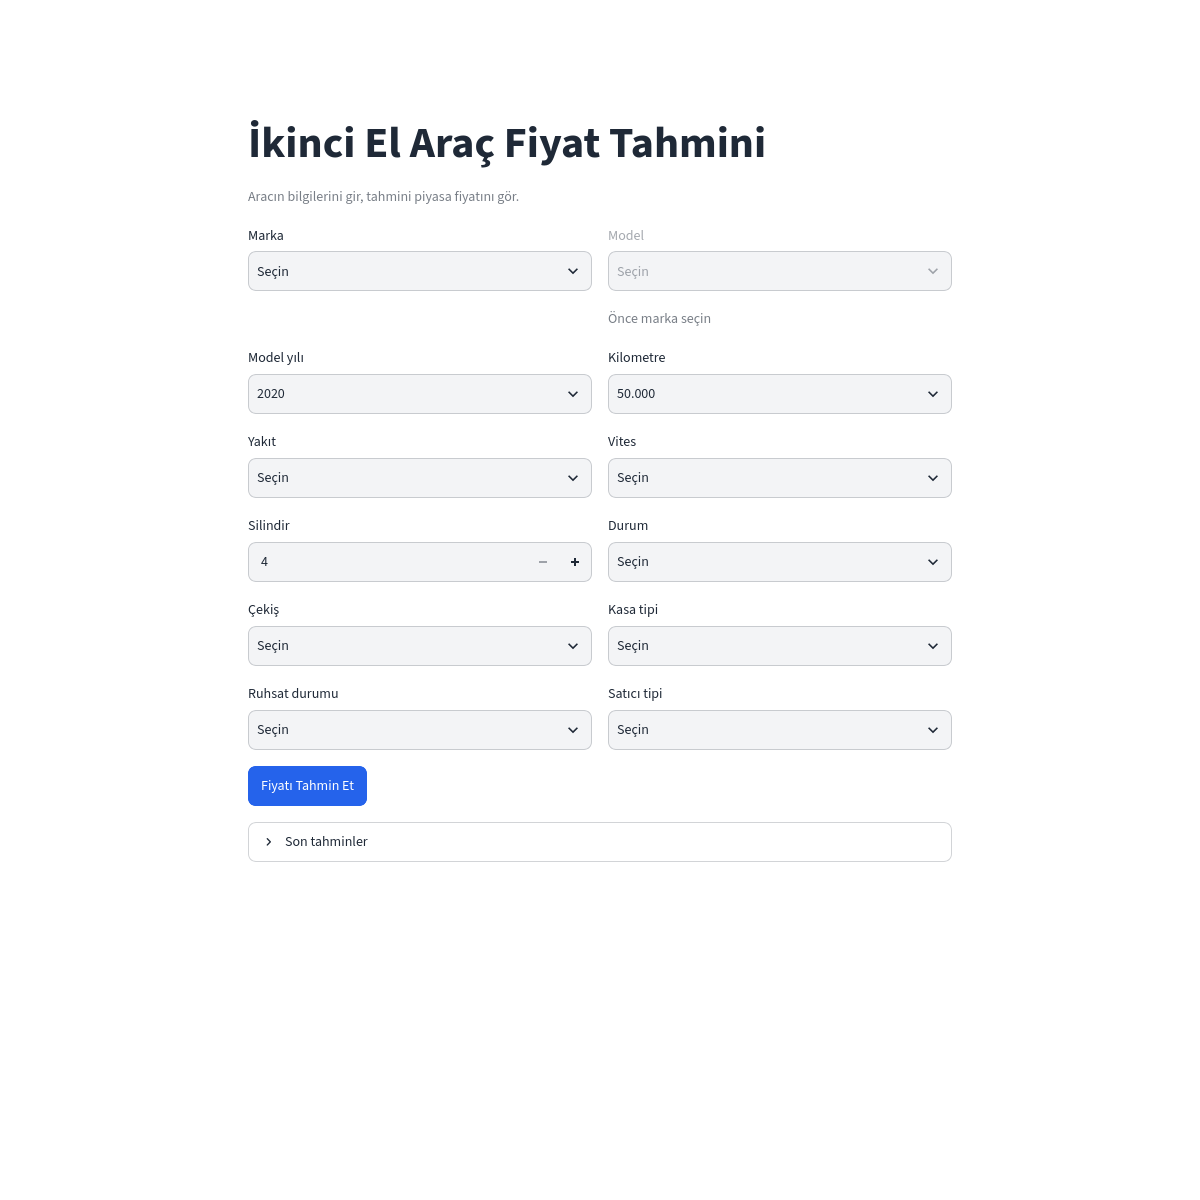
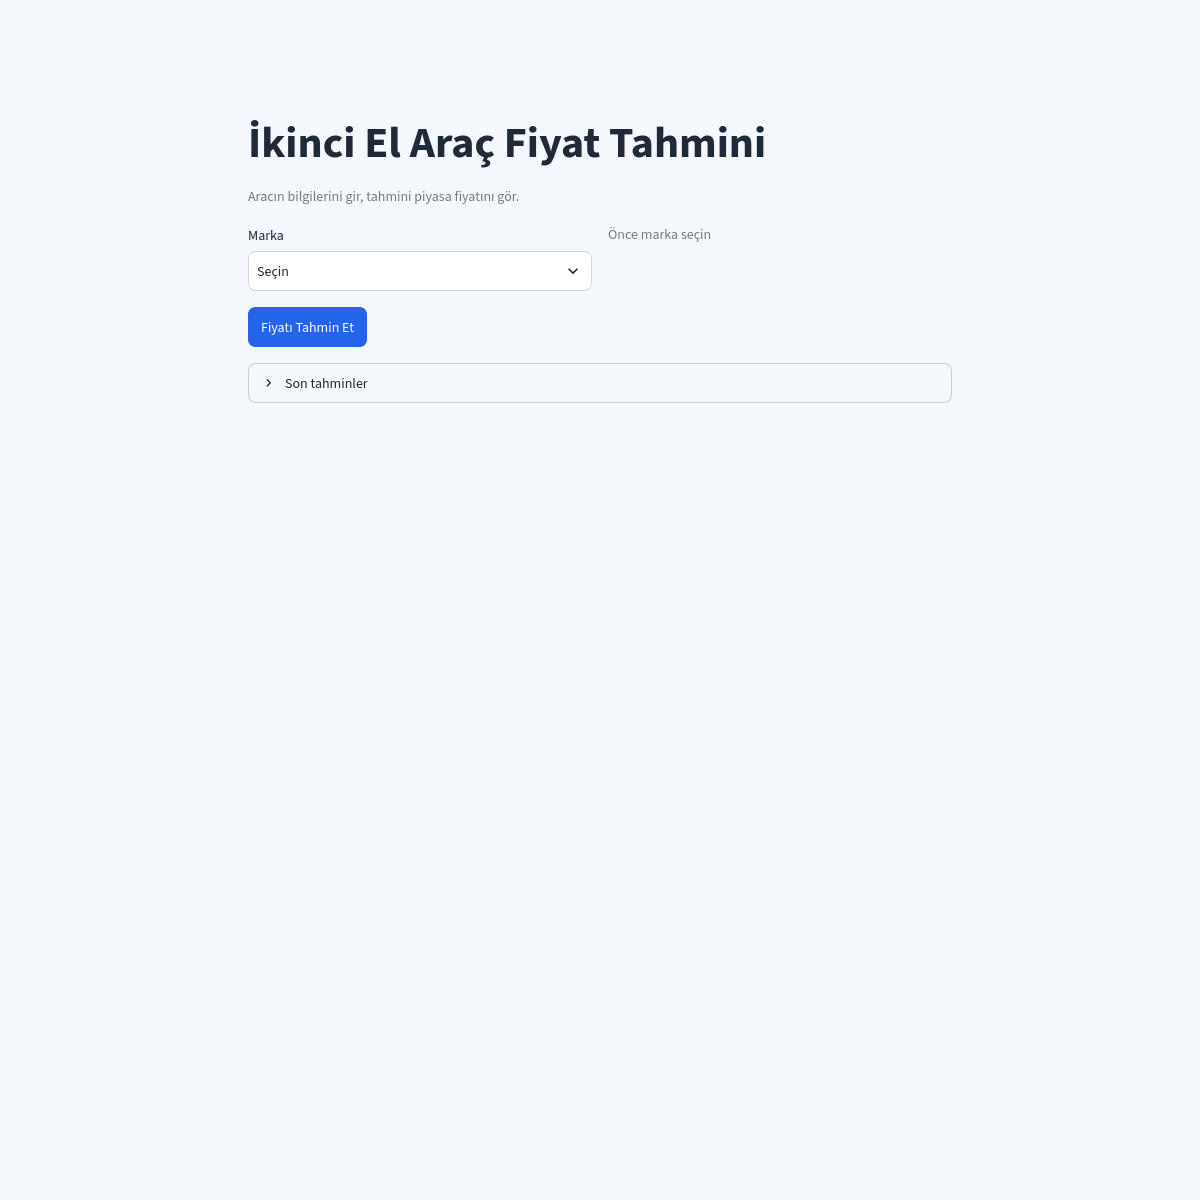
test(ui): v2 ekran görüntüleri ve doğrulama kaydı

diff --git a/docs/DOGRULAMA.md b/docs/DOGRULAMA.md
@@ -60,3 +60,19 @@ yer almaz; kullanıcı boş model listesiyle karşılaşmaz. Doğrulama:
 
 `get_options()` fonksiyonuna eklenen `year` ve `mileage` anahtarları CONTRACT.md'deki imzayı genişletir.
 Belge güncellemesi ve iki kişilik onay (Kaan) hâlâ bekleniyor; bu, §12 maddelerinden bağımsız bir süreç maddesidir.
+
+## V2 ek doğrulamaları (osman/frontend-v1 üzerine)
+
+| Kontrol | Sonuç |
+|---|---|
+| Arka plan açık gri-mavi (`#F4F7FB`) | ✅ tarayıcıda `rgb(244,247,251)` doğrulandı |
+| Marka seçilmeden Model görünmüyor | ✅ 1 selectbox ("Marka"), "Önce marka seçin" yazısı |
+| Model seçilmeden yıl/km/yakıt/vites/diğer alanlar gizli | ✅ 2 selectbox (Marka + Model), `number_input` yok |
+| Silindir: Elektrik ve Hibrit'te gizli, Dizel'de görünür | ✅ Playwright + 3 parametreli test |
+| Sonuçta dolar/TL dönüşüm satırı yok | ✅ backend fiyatı TL döndürüyor, arayüz sadece TL gösteriyor |
+| Testler | **137 passed** (103 backend + 34 frontend) |
+| ruff check / format --check | temiz |
+| Ekran görüntüleri | gerçek servisle yeniden üretildi (`docs/img/*.png`) |
+
+Veri ve fiyatlar Kaan'ın backend'i (`src.core.service` → `data/cars.db` + model) üzerinden
+geliyor; arayüz veritabanına/model dosyasına doğrudan erişmiyor.
